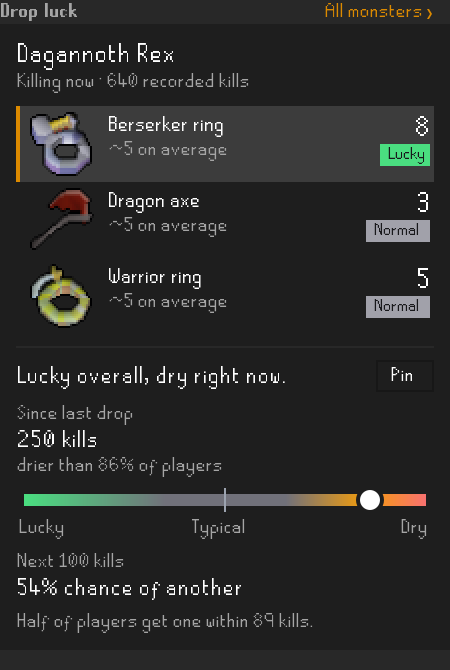
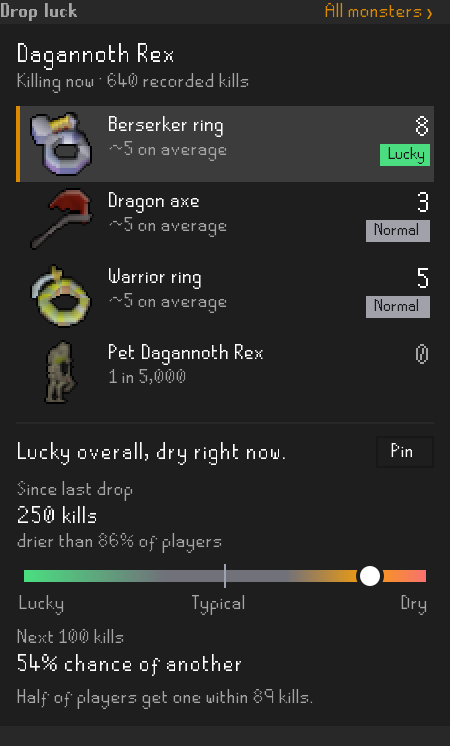
Picture Drop luck's card with Rex's pet, as 1.10.0 draws it
Every boss's rates give Dagannoth Rex a fourth rated drop, its pet at
1 in 5,000, so the Hub page's picture of the card was a row short. It is
painted again from master with the same harness, whose stub catalog now
answers the pet's name as the game's catalog does; without that the row
painted with no picture, which the game would not do. The record names
the README's scene correctly, where the last one named an older card.

diff --git a/docs/review-evidence/sidebar-polish-2026-10-29/SidebarPolishShot.java b/docs/review-evidence/sidebar-polish-2026-10-29/SidebarPolishShot.java
@@ -131,7 +131,8 @@ public class SidebarPolishShot
 		net.runelite.client.game.ItemManager itemManager = (net.runelite.client.game.ItemManager) allocate(net.runelite.client.game.ItemManager.class);
 		/*
 		 * The real client's collection catalog resolves a rated item that has not dropped yet.
-		 * This scene supplies that one name/id without claiming a complete collection catalog.
+		 * These scenes supply the two names they show, the robe and Rex's pet, without claiming a
+		 * complete collection catalog.
 		 */
 		LootLog lootLog = new LootLog(game.client(), store, gson, new LootLog.NotableItems()
 		{
@@ -156,8 +157,8 @@ public class SidebarPolishShot
 			@Override
 			public Integer idFor(String name)
 			{
-				return "Mystic robe bottom (dark)".equals(name)
-					? net.runelite.api.gameval.ItemID.MYSTIC_ROBE_BOTTOM_DARK : null;
+				return "Mystic robe bottom (dark)".equals(name) ? net.runelite.api.gameval.ItemID.MYSTIC_ROBE_BOTTOM_DARK
+					: "Pet Dagannoth Rex".equals(name) ? net.runelite.api.gameval.ItemID.REXPET : null;
 			}
 		});
 		Pairing pairing = new Pairing(store, gson, config::relayUrl);

diff --git a/docs/review-evidence/sidebar-polish-2026-10-29/Sprites.java b/docs/review-evidence/sidebar-polish-2026-10-29/Sprites.java
@@ -45,6 +45,7 @@ final class Sprites
 		ITEMS.put(6737, "berserker-ring");
 		ITEMS.put(6735, "warrior-ring");
 		ITEMS.put(6739, "dragon-axe");
+		ITEMS.put(net.runelite.api.gameval.ItemID.REXPET, "pet-dagannoth-rex");
 		CHIPS.put(net.runelite.api.gameval.ItemID.SAILING_LOG, "captains-log");
 		CHIPS.put(net.runelite.api.gameval.ItemID.SAILING_CHARTING_SPYGLASS, "spyglass");
 		CHIPS.put(net.runelite.api.gameval.ItemID.SAILING_CHARTING_CROWBAR, "crowbar");

diff --git a/docs/review-evidence/readme-2026-11-14.md b/docs/review-evidence/readme-2026-11-14.md
@@ -1,0 +1,25 @@
+# README pictures — 14 November 2026
+
+Every boss's rates in 1.10.0 give Dagannoth Rex a fourth rated drop, its pet at 1 in 5,000, so the
+Drop luck card the README pictures has a row the 13 November picture lacks. This is that one picture
+painted again. Every other picture is as `readme-2026-11-13.md` records it.
+
+## How it was made
+
+As on 13 November, with one correction: the README's scene is `dropluck-boss-card`, not
+`dropluck-card`, the Aberrant spectre card it was before the Dagannoth Kings had rates
+(`readme-2026-11-02.md` says so; the 13 November command line still named the old one). From the plugin
+root, after `./gradlew harnessJar -PruneLiteVersion=1.13.4`, on Windows with JDK 25, with `cp` and
+`run` set as that record says:
+
+```sh
+$run com.pbolduc.mapcompanion.SidebarPolishShot <out> dropluck-boss-card
+```
+
+The scene's item catalog is a stub that knows only the names it shows, so it now answers Rex's pet
+by name as the real catalog does in the game, and `Sprites.java` gives the pet's id the website's
+copy of its picture. Without those two lines the row paints with no picture, which the game would not do.
+
+| Picture | Scene | Painted | Was |
+| --- | --- | --- | --- |
+| `sidebar-drop-luck.png` | `dropluck-boss-card`, the card alone | 225×373 | 225×335 |

diff --git a/README.md b/README.md
@@ -152,7 +152,7 @@ dailies you have collected left out of a dailies run.
 ## Drop luck
 
 <p>
-  <img src="docs/mockups/sidebar-drop-luck.png" width="300" alt="Drop luck for Dagannoth Rex after 640 recorded kills: eight berserker rings marked Lucky, a dragon axe and a warrior ring, then Lucky overall, dry right now, with 250 kills since the last ring, drier than 86% of players, and a 54% chance of another in the next 100 kills">
+  <img src="docs/mockups/sidebar-drop-luck.png" width="300" alt="Drop luck for Dagannoth Rex after 640 recorded kills: eight berserker rings marked Lucky, a dragon axe and a warrior ring, the pet at 1 in 5,000 not yet seen, then Lucky overall, dry right now, with 250 kills since the last ring, drier than 86% of players, and a 54% chance of another in the next 100 kills">
 </p>
 
 See how lucky or dry you are on the monster you are killing, with sourced drop odds and the chance
